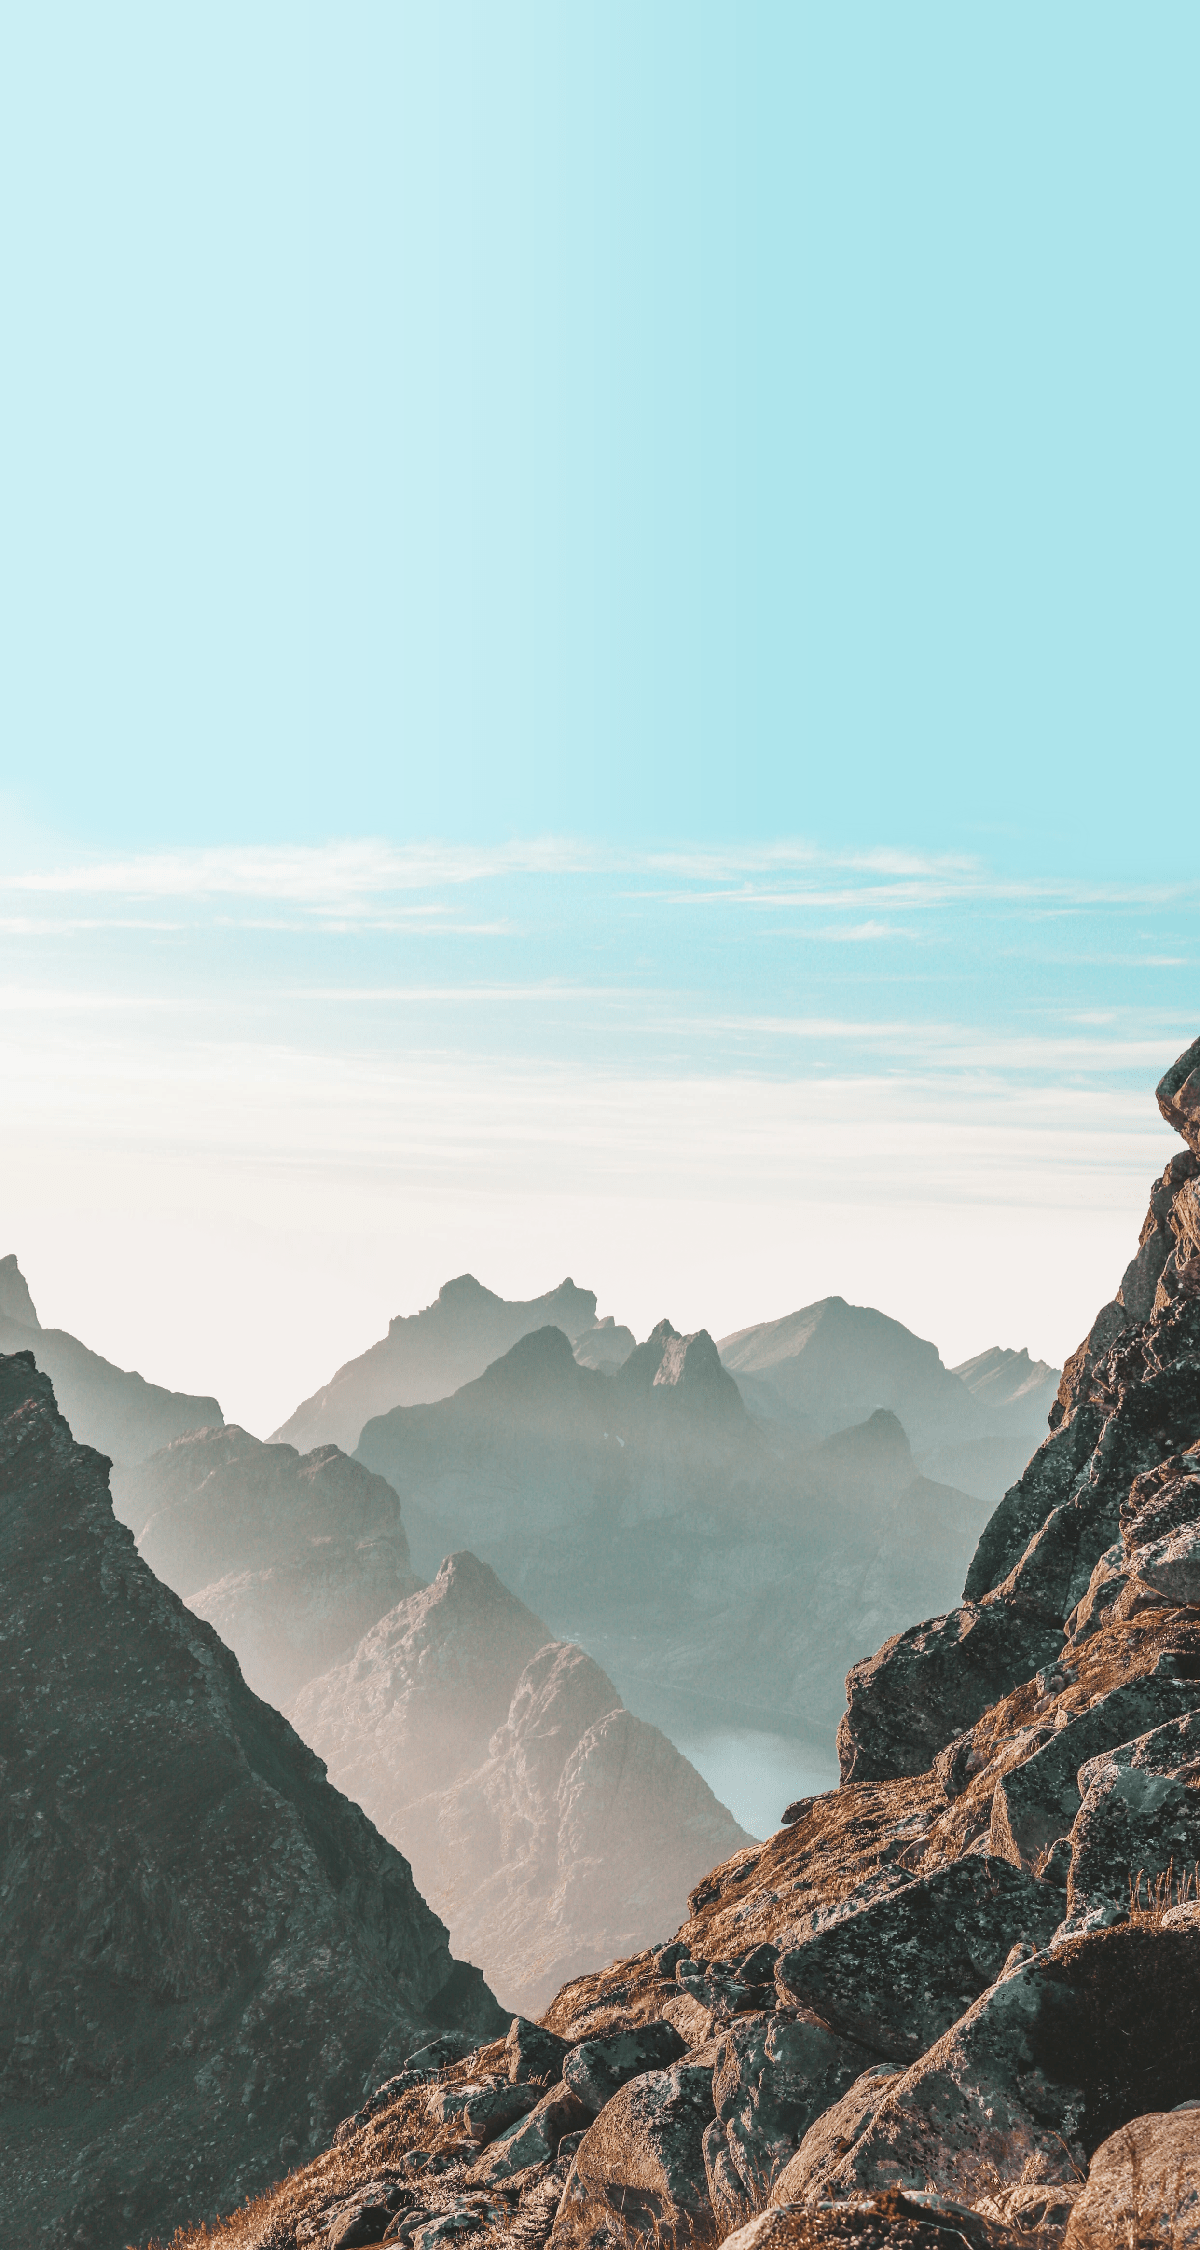
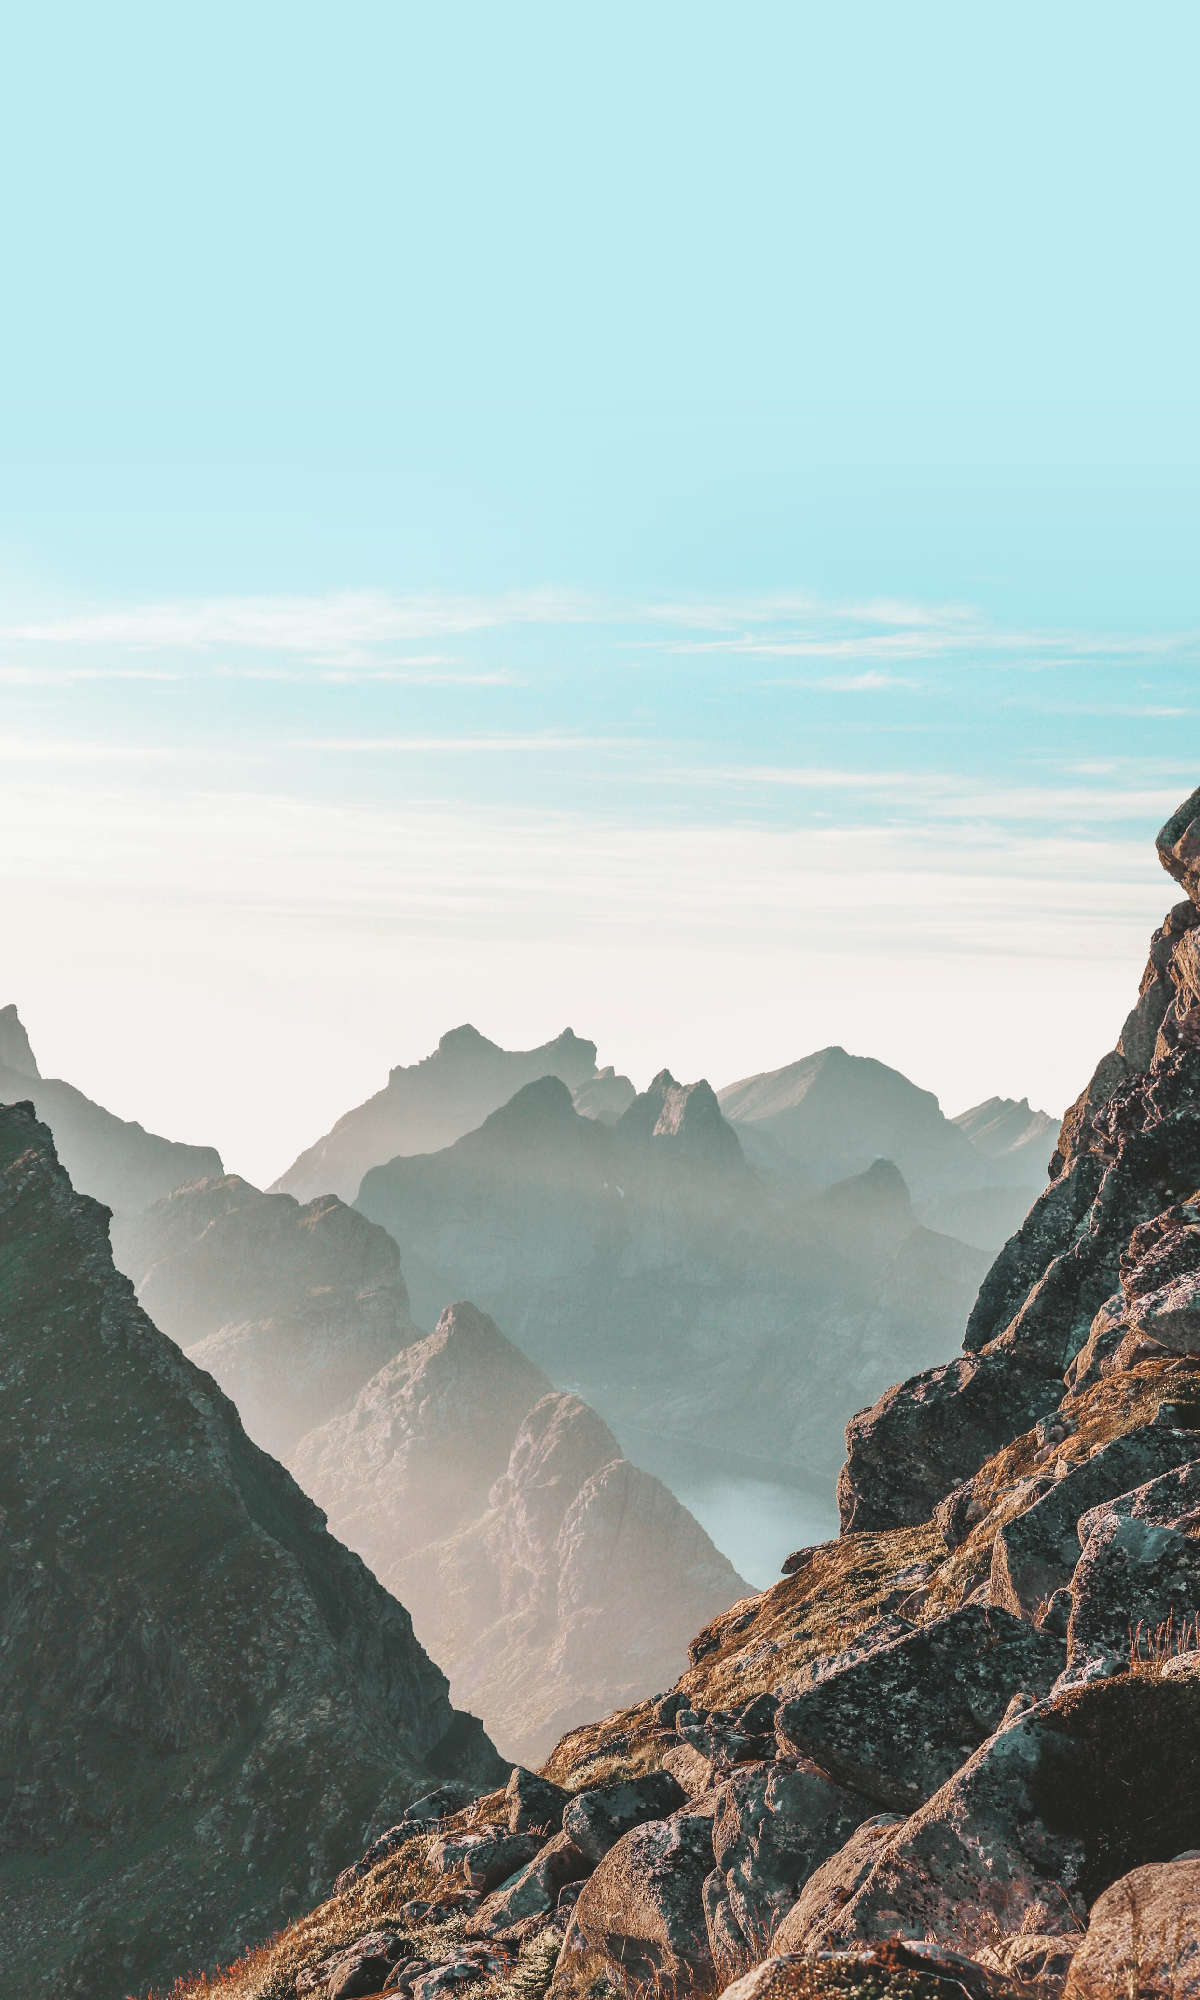
Background should work better now

Changed region(s): [[0.0, 0.279, 1.0, 1.0], [0.1542, 0.899, 0.2158, 0.93], [0.4317, 0.279, 0.4625, 0.31]]

diff --git a/website.css b/website.css
@@ -7,7 +7,6 @@
           box-sizing: border-box;
         }
         body {
-          height: 100%;
           background-color: var(--light-green);
           color: var(--darkest-blue);
           
@@ -95,7 +94,7 @@
       --font-size-biggest: 2rem;
 
       --blurry-box-width: 100%;
-      --max-content-width: 1000px;
+      --max-content-width: 1200px;
 
       --border-radius: 16px;
 
@@ -104,8 +103,7 @@
 
       --box-shadow: 0 5px 10px -3px #00000044;
 
-      --bg-image: url(images/Bg\ short.png);
-      --bg-image-smol: url(images/Bg\ tall.png);
+      --bg-image: url(images/Bg\ tall.png);
 
       --thin-border: solid 1px var(--transparent-black);
     }
@@ -120,7 +118,6 @@
       --darkest-blue: #ffffff;
 
       --bg-image: url(https://images.unsplash.com/photo-1623228676065-7d44db19768b?q=80&w=2187&auto=format&fit=crop&ixlib=rb-4.0.3&ixid=M3wxMjA3fDB8MHxwaG90by1wYWdlfHx8fGVufDB8fHx8fA%3D%3D);
-      --bg-image-smol: url(https://images.unsplash.com/photo-1623228676065-7d44db19768b?q=80&w=2187&auto=format&fit=crop&ixlib=rb-4.0.3&ixid=M3wxMjA3fDB8MHxwaG90by1wYWdlfHx8fGVufDB8fHx8fA%3D%3D);
 
       --transparent-black: var(--light-green);
       --thin-border: solid 1px var(--light-green);
@@ -145,7 +142,7 @@
    display: flex;
    justify-content: center;
    align-items: center;
-   height: 24vh; /* this will set the height for the smallest screen size, go to the media queries for other heights */
+   height: 20vh; /* this will set the height for the smallest screen size, go to the media queries for other heights */
    overflow: hidden; /* Ensure content inside is cropped */
    z-index: 1000; /* Increased z-index to ensure it's above all other content */
    border-radius: var(--border-radius);
@@ -228,21 +225,21 @@
     height: 100%;
 }
 @media only screen and (min-width: 640px) {
-    .banner { height: 26vh; }
+    .banner { height: 24vh; }
     #ground {margin-bottom: -50px;}
     #mountain-1 {margin-bottom: -80px;}
     #mountain-2 {margin-bottom: -100px;}
     #hill {margin-bottom: -20px;}
     #cloud-1 {margin-bottom: -100px;}}
 @media only screen and (min-width: 768px) {
-    .banner { height: 34vh; }
+    .banner { height: 28vh; }
     #ground {margin-bottom: -100px;}
     #mountain-1 {margin-bottom: -190px;}
     #mountain-2 {margin-bottom: -180px;}
     #hill {margin-bottom: -30px;}
     #cloud-1 {margin-bottom: -150px;}}
 @media only screen and (min-width: 1024px) {
-    .banner { height: 40vh; }
+    .banner { height: 32vh; }
     #ground {margin-bottom: -140px;}
     #mountain-1 {margin-bottom: -320px;}
     #mountain-2 {margin-bottom: -280px;}
@@ -250,7 +247,7 @@
     #cloud-1 {margin-bottom: -250px;}
     #cloud-2 {margin-bottom: -350px;}}
 @media only screen and (min-width: 1280px) {
-    .banner { height: 44vh; }
+    .banner { height: 36vh; }
     #ground {margin-bottom: -180px;}
     #mountain-1 {margin-bottom: -360px;}
     #mountain-2 {margin-bottom: -330px;}
@@ -713,47 +710,28 @@
     }
 
     body {
-
-      --background-size-haha: 100vw;
-
         background-image: var(--bg-image);
-        background-attachment: fixed;
-        background-size: var(--background-size-haha);
+        background-attachment: scroll;
+        background-repeat: repeat;
+        background-size: cover;
     }
 
-    .box1, .grid2, .grid1, .nav-links-wrapper {
-        background-image: var(--bg-image);
-        background-size: var(--background-size-haha);
-  }
+    .body-fixed-img {
+        background-image: url(images/Gradient_Wjust_Nav.png);
+        background-size: 100% 100%; /* Stretch the background image to cover the entire div */
+        background-repeat: no-repeat; /* Prevent the background image from repeating */
+        background-position: center; /* Center the background image */
 
-  .box2, .grid4 {
-        background-image: var(--bg-image);
-        background-position: top right;
-        background-size: var(--background-size-haha);
-}
-
-    @media (max-width: 800px) {
-
-      body {
-
-        --background-size-smol: 100vw;
-  
-          background-image: var(--bg-image-smol);
-          background-attachment: fixed;
-          background-size: var(--background-size-smol);
-      }
-  
-      .box1, .grid2, .grid1, .nav-links-wrapper {
-          background-image: var(--bg-image-smol);
-          background-size: var(--background-size-smol);
+        position: fixed;
+        z-index: -1;
+        height: 480px; /* should be the same as the image we're using's height */
+        width: 100%;
     }
-  
-    .box2, .grid4 {
-          background-image: var(--bg-image-smol);
-          background-position: right;
-          background-size: var(--background-size-smol);
+
+    .box1, .grid2, .grid1, .nav-links-wrapper, .box2, .grid4 {
+        background-color: #beeaf0;
   }
-      }
+
     .sticky {
         position: sticky;
         top: 0;

diff --git a/script.js b/script.js
@@ -6,28 +6,28 @@
 function updatePositions() {
   const stickyTop = document.querySelector('.sticky').getBoundingClientRect().top;
 
-  // Check if the top position of the sticky element is at the top of the viewport
-  if (stickyTop === 0) {
-      // If sticky top equals 0, set background attachment to fixed for the specified elements
-      document.querySelector('.spacer').style.backgroundAttachment = 'fixed';
-      document.querySelector('.box1').style.backgroundAttachment = 'fixed';
-      document.querySelector('.box2').style.backgroundAttachment = 'fixed';
-      document.querySelector('.grid1').style.backgroundAttachment = 'fixed';
-      document.querySelector('.grid2').style.backgroundAttachment = 'fixed';
-      document.querySelector('.grid4').style.backgroundAttachment = 'fixed';
-      document.querySelector('.sticky').style.backgroundAttachment = 'fixed';
-      document.querySelector('.nav-links-wrapper').style.backgroundAttachment = 'fixed';
-  } else {
-      // If sticky top does not equal 0, reset background attachment to default for the specified elements
-      document.querySelector('.spacer').style.backgroundAttachment = 'scroll';
-      document.querySelector('.box1').style.backgroundAttachment = 'scroll';
-      document.querySelector('.box2').style.backgroundAttachment = 'scroll';
-      document.querySelector('.grid1').style.backgroundAttachment = 'scroll';
-      document.querySelector('.grid2').style.backgroundAttachment = 'scroll';
-      document.querySelector('.grid4').style.backgroundAttachment = 'scroll';
-      document.querySelector('.sticky').style.backgroundAttachment = 'scroll';
-      document.querySelector('.nav-links-wrapper').style.backgroundAttachment = 'scroll';
-  }
+//   // Check if the top position of the sticky element is at the top of the viewport
+//   if (stickyTop === 0) {
+//       // If sticky top equals 0, set background attachment to fixed for the specified elements
+//       document.querySelector('.spacer').style.backgroundAttachment = 'fixed';
+//       document.querySelector('.box1').style.backgroundAttachment = 'fixed';
+//       document.querySelector('.box2').style.backgroundAttachment = 'fixed';
+//       document.querySelector('.grid1').style.backgroundAttachment = 'fixed';
+//       document.querySelector('.grid2').style.backgroundAttachment = 'fixed';
+//       document.querySelector('.grid4').style.backgroundAttachment = 'fixed';
+//       document.querySelector('.sticky').style.backgroundAttachment = 'fixed';
+//       document.querySelector('.nav-links-wrapper').style.backgroundAttachment = 'fixed';
+//   } else {
+//       // If sticky top does not equal 0, reset background attachment to default for the specified elements
+//       document.querySelector('.spacer').style.backgroundAttachment = 'scroll';
+//       document.querySelector('.box1').style.backgroundAttachment = 'scroll';
+//       document.querySelector('.box2').style.backgroundAttachment = 'scroll';
+//       document.querySelector('.grid1').style.backgroundAttachment = 'scroll';
+//       document.querySelector('.grid2').style.backgroundAttachment = 'scroll';
+//       document.querySelector('.grid4').style.backgroundAttachment = 'scroll';
+//       document.querySelector('.sticky').style.backgroundAttachment = 'scroll';
+//       document.querySelector('.nav-links-wrapper').style.backgroundAttachment = 'scroll';
+//   }
 
   const scrolled = window.pageYOffset;
   const backgroundPositionY = -20 - scrolled * 0.2; // Adjust translation speed as needed

diff --git a/faq.html b/faq.html
@@ -265,6 +265,7 @@ justify-content: center; /* Horizontally center the content */
     <script src="//cdnjs.cloudflare.com/ajax/libs/list.js/1.5.0/list.min.js"></script>
 </head>
 <body>
+    <div class="body-fixed-img"></div>
         <!-- -----------------
         Header Start
     ----------------- -->

diff --git a/item-list.html b/item-list.html
@@ -261,6 +261,7 @@
     </style>
 </head>
 <body>
+    <div class="body-fixed-img"></div>
             <!-- -----------------
         Header Start
     ----------------- -->

diff --git a/index.html b/index.html
@@ -129,6 +129,7 @@
     
 </head>
 <body>    
+<div class="body-fixed-img"></div>
         <!-- -----------------
         Header Start
     ----------------- -->
